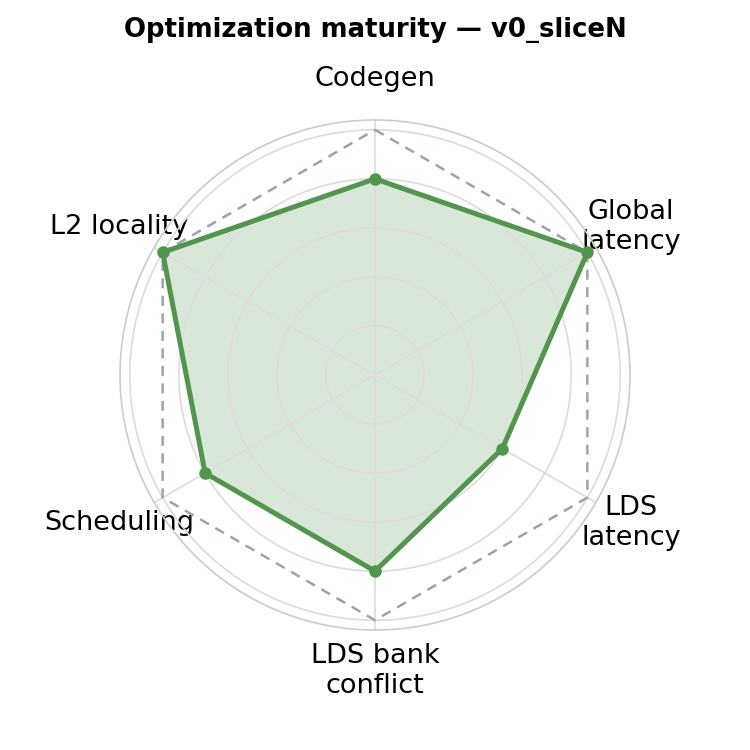
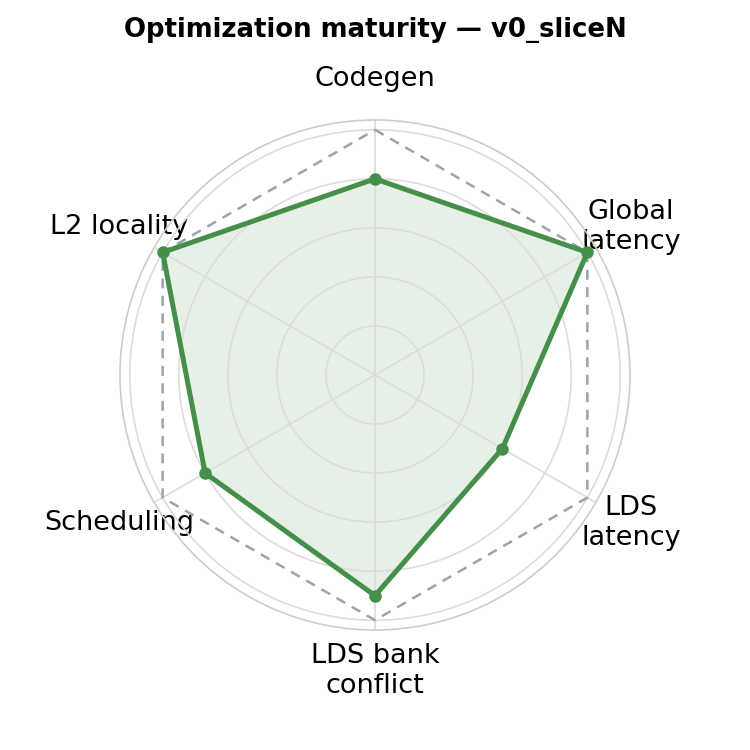
maturity radar: intra a4w4 v0_sliceN — LDS bank conflict 4 -> 4.5

Changed region(s): [[0.276, 0.6133, 0.6747, 0.7973]]

diff --git a/scripts/plot_maturity_radar.py b/scripts/plot_maturity_radar.py
@@ -78,7 +78,7 @@ SCORES = {
     "intra_wave/a16w16/v9_beyond_hotloop": [5, 5, 5, 5, 5, 5],  # XCD-aware PID remap: L2 locality
     # intra_wave a8w8 / a4w4 — the mature 4-wave design at BF8 / MXFP4
     "intra_wave/a8w8": [5, 5, 5, 5, 5, 5],  # a16w16 v8+v9 design at BF8 (~99.5% MFMA)
-    "intra_wave/a4w4/v0_sliceN": [4, 5, 3, 4, 4, 5],  # +scale pipeline via LDS round-trip
+    "intra_wave/a4w4/v0_sliceN": [4, 5, 3, 4.5, 4, 5],  # +scale pipeline via LDS round-trip
     "intra_wave/a4w4/v1_sliceMN": [5, 5, 5, 5, 4.5, 5],  # M+N slice + direct-to-LDS scales (~94%)
     # inter_wave — the 8-wave warp-pipeline route
     "inter_wave/a16w16": [5, 5, 5, 5, 5, 5],  # ping-pong, ~99.8% loop MFMA
